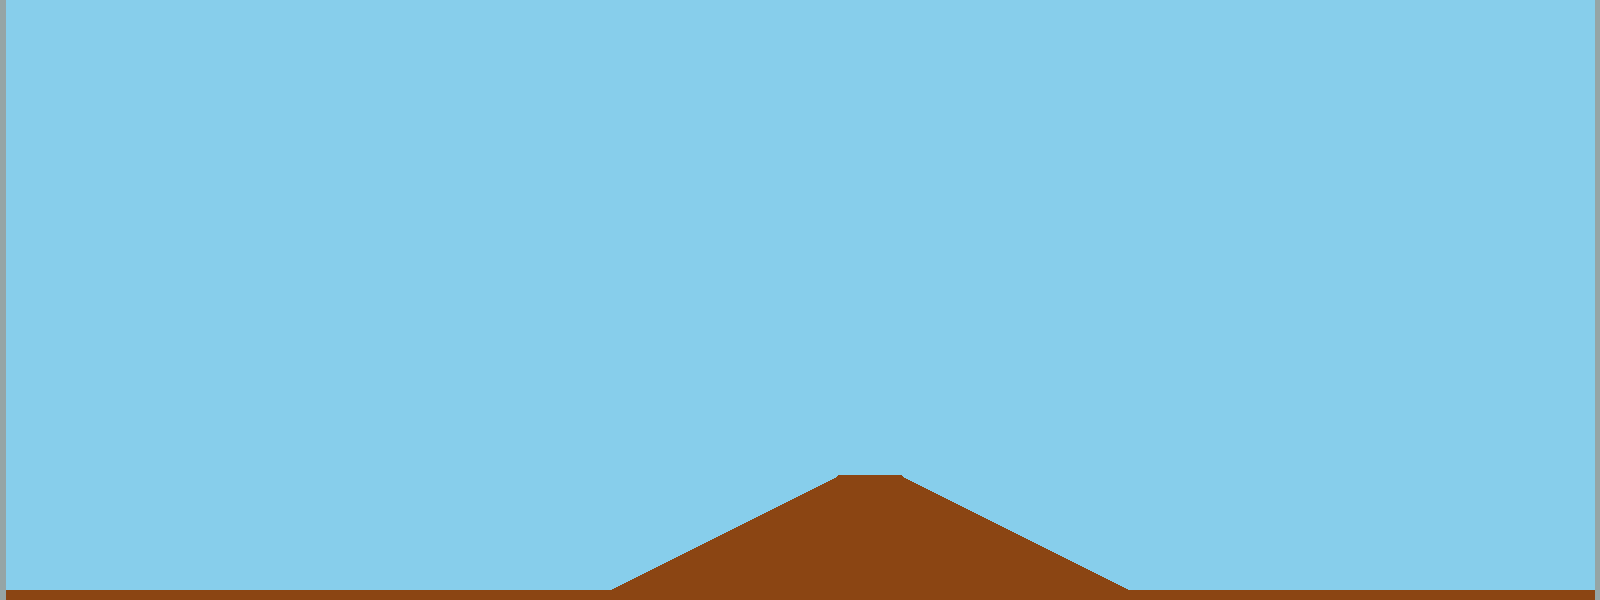
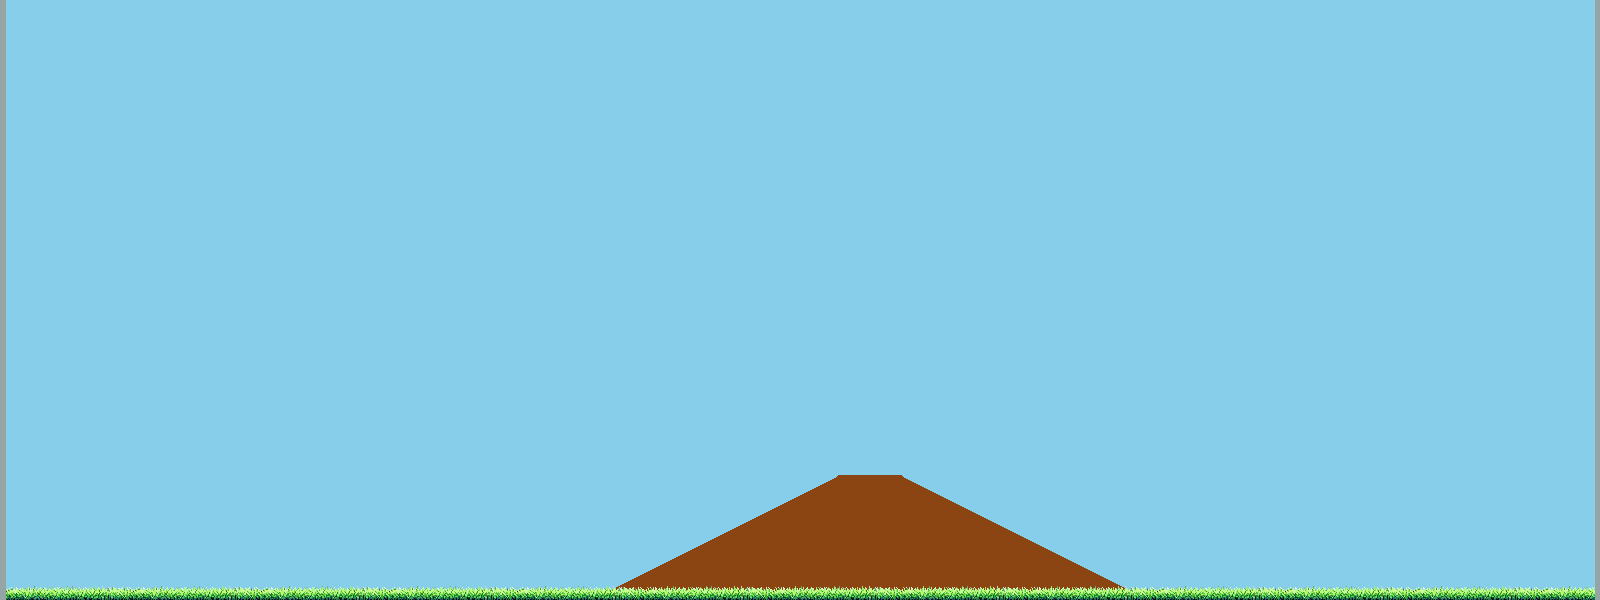
grass looks pretty good and rightside UI is back (sorry)

Changed region(s): [[0.0, 0.96, 1.0, 1.0]]

diff --git a/main.py b/main.py
@@ -93,6 +93,21 @@ class Game:
             120: False  # Huge boulder starts locked
         }
 
+        self.particles = []  # List to store particles
+        self.cloud_sprite_sheet = pygame.image.load(os.path.join(assets_dir, 'Clouds-Sheet.png')).convert_alpha()  # Load cloud sprite sheet
+        self.clouds = self.create_clouds()  # Create clouds
+        self.money_particles = []  # List to store money particles
+        self.money_texts = []  # List to store money text effects
+        grass_raw = pygame.image.load(os.path.join(assets_dir, 'grass.png')).convert_alpha()
+        # Scale grass sprite up by 2x
+        grass_width = grass_raw.get_width() * 2
+        grass_height = grass_raw.get_height() * 2
+        self.grass_sprite = pygame.transform.scale(grass_raw, (grass_width, grass_height))
+        # Debug position controls for grass
+        self.grass_x = 0  # Initial X offset
+        self.grass_y = 540  # Adjust initial Y position by raising 20 pixels
+        self.offset = 20   
+
         self.sisyphus = self.create_sisyphus()
         self.current_boulder = None
         self.crushing_boulders = []
@@ -148,31 +163,9 @@ class Game:
         self.medium_boulder_button = Button(button_x, 100, button_width, 30, "Medium Boulder (10$)", lambda: self.unlock_and_spawn(50))
         self.large_boulder_button = Button(button_x, 140, button_width, 30, "Large Boulder (100$)", lambda: self.unlock_and_spawn(80))
         self.huge_boulder_button = Button(button_x, 180, button_width, 30, "Huge Boulder (1000$)", lambda: self.unlock_and_spawn(120))
-        self.particles = []  # List to store particles
-        self.cloud_sprite_sheet = pygame.image.load(os.path.join(assets_dir, 'Clouds-Sheet.png')).convert_alpha()  # Load cloud sprite sheet
-        self.clouds = self.create_clouds()  # Create clouds
-        # Remove boulder fragments related code
-        # Remove debug button for instant level up
-        # self.debug_level_button = Button(10, 60, 100, 20, "Level Up", self.debug_level_up)  # Remove this line
-        self.money_particles = []  # List to store money particles
-        self.money_texts = []  # List to store money text effects
         # Add debug button for instant level up and money particles
         self.debug_level_button = Button(10, 60, 100, 20, "Level Up", self.debug_level_up)
         self.debug_money_button = Button(10, 90, 100, 20, "Money Test", lambda: self.spawn_money_particles(10))
-        grass_raw = pygame.image.load(os.path.join(assets_dir, 'grass.png')).convert_alpha()
-        # Scale grass sprite up by 2x
-        grass_width = grass_raw.get_width() * 2
-        grass_height = grass_raw.get_height() * 2
-        self.grass_sprite = pygame.transform.scale(grass_raw, (grass_width, grass_height))
-        # Debug position controls for grass
-        self.grass_x = 0  # Initial X offset
-        self.grass_y = 540  # Adjust initial Y position by raising 30 pixels
-        
-        # Add debug sliders for grass position
-        self.grass_x_slider = pygame.Rect(10, 150, 200, 20)
-        self.grass_y_slider = pygame.Rect(10, 180, 200, 20)
-        self.dragging_x = False
-        self.dragging_y = False
 
     def ignore_collision(self, arbiter, space, data):
         """Collision handler that ignores the collision."""
@@ -310,7 +303,7 @@ class Game:
         sisyphus_mass = 10
         sisyphus_moment = pymunk.moment_for_box(sisyphus_mass, (sisyphus_size, sisyphus_size))
         sisyphus_body = pymunk.Body(sisyphus_mass, sisyphus_moment)
-        sisyphus_body.position = 400, self.height - sisyphus_size/2 - 30  # Raise by 30 pixels
+        sisyphus_body.position = 400, self.height - sisyphus_size/2 - self.offset  # Raise by offset
         sisyphus_shape = pymunk.Poly.create_box(sisyphus_body, (sisyphus_size, sisyphus_size))
         sisyphus_shape.friction = self.friction
         sisyphus_shape.color = pygame.Color('red')  # Change color to red
@@ -339,7 +332,7 @@ class Game:
         boulder_body = pymunk.Body(boulder_mass, boulder_moment)
         
         # Spawn left of the hill
-        boulder_body.position = self.width * .3 , self.height - 250 - 30  # Raise by 30 pixels
+        boulder_body.position = self.width * .3 , self.height - 250 - self.offset  # Raise by offset
         boulder_shape = pymunk.Circle(boulder_body, radius)
         boulder_shape.friction = self.friction
         boulder_shape.color = pygame.Color('gray')  # Set default color
@@ -410,10 +403,10 @@ class Game:
         # **Create a ground as a static polygon with thickness**
         ground_body = pymunk.Body(body_type=pymunk.Body.STATIC)
         ground_shape = pymunk.Poly(ground_body, [
-            (0, self.height - 30),  # Raise by 30 pixels
-            (self.width, self.height - 30),  # Raise by 30 pixels
-            (self.width, self.height - 40),  # Raise by 30 pixels
-            (0, self.height - 40)  # Raise by 30 pixels
+            (0, self.height - self.offset),  # Raise by offset
+            (self.width, self.height - self.offset),  # Raise by offset
+            (self.width, self.height - self.offset - 10),  # Raise by offset
+            (0, self.height - self.offset - 10)  # Raise by offset
         ])
         ground_shape.friction = self.friction
         ground_shape.collision_type = 2  # Set collision type for ground
@@ -449,10 +442,10 @@ class Game:
         
         # Create a more complex hill shape
         hill_points = [
-            (self.width * 3 // 8, self.height - 30),  # Raise by 30 pixels
-            (self.width * 4.2 // 8, self.height - 150),  # Raise by 30 pixels
-            (self.width * 4.5 // 8, self.height - 150),  # Raise by 30 pixels
-            (self.width * 5.7 // 8, self.height - 30)  # Raise by 30 pixels
+            (self.width * 3 // 8, self.height - self.offset),  # Raise by offset
+            (self.width * 4.2 // 8, self.height - 140 - self.offset),  # Raise by offset
+            (self.width * 4.5 // 8, self.height - 140 - self.offset),  # Raise by offset
+            (self.width * 5.7 // 8, self.height - self.offset)  # Raise by offset
         ]
         
         hill_shapes = []
@@ -468,10 +461,10 @@ class Game:
 
     def draw_hill(self):
         hill_points = [
-            (self.width * 3 // 8, self.height - 30),  # Raise by 30 pixels
-            (self.width * 4.2 // 8, self.height - 150),  # Raise by 30 pixels
-            (self.width * 4.5 // 8, self.height - 150),  # Raise by 30 pixels
-            (self.width * 5.7 // 8, self.height - 30)  # Raise by 30 pixels
+            (self.width * 3 // 8, self.height - self.offset),  # Raise by offset
+            (self.width * 4.2 // 8, self.height - 140 - self.offset),  # Raise by offset
+            (self.width * 4.5 // 8, self.height - 140 - self.offset),  # Raise by offset
+            (self.width * 5.7 // 8, self.height - self.offset)  # Raise by offset
         ]
         pygame.draw.polygon(self.screen, (139, 69, 19), [(x - self.camera_x, y) for x, y in hill_points])  # Fill hill
         pygame.draw.lines(self.screen, (139, 69, 19), False, [(x - self.camera_x, y) for x, y in hill_points], 5)  # Draw hill stroke
@@ -510,58 +503,10 @@ class Game:
             x = i * grass_width + (self.grass_x % grass_width) - self.camera_x
             self.screen.blit(self.grass_sprite, (x, self.grass_y))
 
-    def draw_grass_debug_controls(self):
-        # Draw sliders
-        pygame.draw.rect(self.screen, (100, 100, 100), self.grass_x_slider)
-        pygame.draw.rect(self.screen, (100, 100, 100), self.grass_y_slider)
-        
-        # Draw handles
-        x_handle = pygame.Rect(
-            self.grass_x_slider.x + (self.grass_x % 100) * 2,
-            self.grass_x_slider.y,
-            10, 20
-        )
-        y_handle = pygame.Rect(
-            self.grass_y_slider.x + ((self.grass_y - (self.height - 200)) / 200) * self.grass_y_slider.width,
-            self.grass_y_slider.y,
-            10, 20
-        )
-        
-        pygame.draw.rect(self.screen, (150, 150, 150), x_handle)
-        pygame.draw.rect(self.screen, (150, 150, 150), y_handle)
-        
-        # Draw labels
-        font = pygame.font.Font(None, 24)
-        x_text = font.render(f"Grass X: {self.grass_x}", True, (0, 0, 0))
-        y_text = font.render(f"Grass Y: {self.grass_y}", True, (0, 0, 0))
-        self.screen.blit(x_text, (220, 150))
-        self.screen.blit(y_text, (220, 180))
-
     def handle_events(self):
         for event in pygame.event.get():
             if event.type == pygame.QUIT:
                 return False
-                
-            # Handle grass position sliders
-            if event.type == pygame.MOUSEBUTTONDOWN:
-                if self.grass_x_slider.collidepoint(event.pos):
-                    self.dragging_x = True
-                elif self.grass_y_slider.collidepoint(event.pos):
-                    self.dragging_y = True
-                    
-            elif event.type == pygame.MOUSEBUTTONUP:
-                self.dragging_x = False
-                self.dragging_y = False
-                
-            elif event.type == pygame.MOUSEMOTION:
-                if self.dragging_x:
-                    rel_x = event.pos[0] - self.grass_x_slider.x
-                    self.grass_x = (rel_x // 2) % 100
-                if self.dragging_y:
-                    rel_y = event.pos[0] - self.grass_y_slider.x
-                    # Map slider position to a reasonable range for Y
-                    self.grass_y = self.height - 200 + (rel_y / self.grass_y_slider.width) * 200
-                    self.grass_y = max(self.height - 200, min(self.height, self.grass_y))
                 
             # Existing event handling...
             self.small_boulder_button.handle_event(event)
@@ -655,13 +600,13 @@ class Game:
 
             # Check if any boulder is in the detection area at the top
             hill_top_x = self.width * 4.35 // 8
-            hill_top_y = self.height - 200  # Raise by 30 pixels
+            hill_top_y = self.height - 190 - self.offset  # Raise by offset
             boulder_detected = False
             
             # Define bottom sensor areas
             left_sensor_x = self.width * 3 // 8
             right_sensor_x = self.width * 5.7 // 8
-            sensor_y = self.height - 50  # Raise by 30 pixels
+            sensor_y = self.height - 40 - self.offset  # Raise by offset
             sensor_size = 50
 
             if self.current_boulder and self.current_boulder['state'] == 'normal':
@@ -769,7 +714,6 @@ class Game:
 
             # Draw grass
             self.draw_grass()
-            self.draw_grass_debug_controls()
 
             # Draw only walls last (without creating a new space)
             for wall in self.walls:
@@ -778,11 +722,34 @@ class Game:
                 pygame.draw.line(
                     self.screen,
                     pygame.Color('gray'),
-                    (p1.x - self.camera_x, p1.y - 30),  # Raise by 30 pixels
-                    (p2.x - self.camera_x, p2.y - 30),  # Raise by 30 pixels
+                    (p1.x - self.camera_x, p1.y - 20),  # Raise by 20 pixels
+                    (p2.x - self.camera_x, p2.y - 20),  # Raise by 20 pixels
                     5
                 )
             
+             # **Draw UI Elements**
+            # Add money display
+            money_text = self.font.render(f"$ {self.money}", True, (22,129,24))
+            
+            # Draw money display right-aligned
+            money_text = self.money_font.render(f"$ {self.money}", True, (22,129,24))
+            money_rect = money_text.get_rect(right=790, y=20)  # Right-align with 10px padding
+            self.screen.blit(money_text, money_rect)
+            
+            # Draw buttons - only show if previous size is unlocked
+            self.small_boulder_button.draw(self.screen)
+            if self.unlocked_sizes[40]:
+                self.medium_boulder_button.draw(self.screen)
+            if self.unlocked_sizes[50]:
+                self.large_boulder_button.draw(self.screen)
+            if self.unlocked_sizes[80]:
+                self.huge_boulder_button.draw(self.screen)
+
+            # Update button states based on unlocks and money
+            self.medium_boulder_button.enabled = self.unlocked_sizes[40] and (self.unlocked_sizes[50] or self.money >= 10)
+            self.large_boulder_button.enabled = self.unlocked_sizes[50] and (self.unlocked_sizes[80] or self.money >= 100)
+            self.huge_boulder_button.enabled = self.unlocked_sizes[80] and (self.unlocked_sizes[120] or self.money >= 1000)
+
             self.draw_options.transform = pymunk.Transform.identity()
             
             pygame.display.flip()
